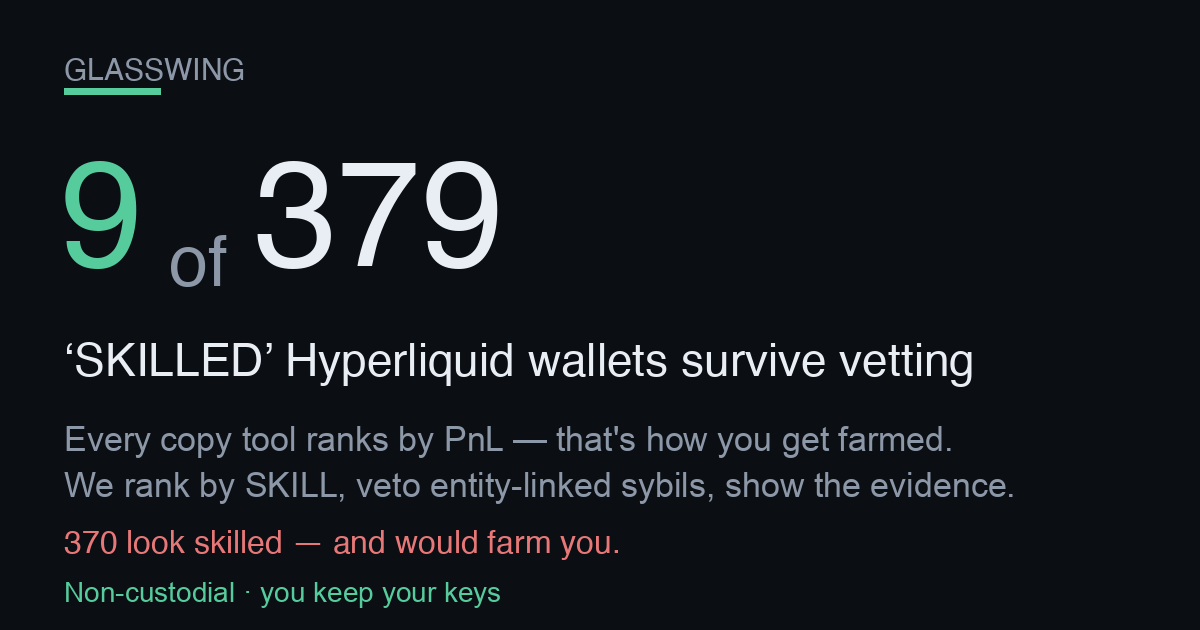
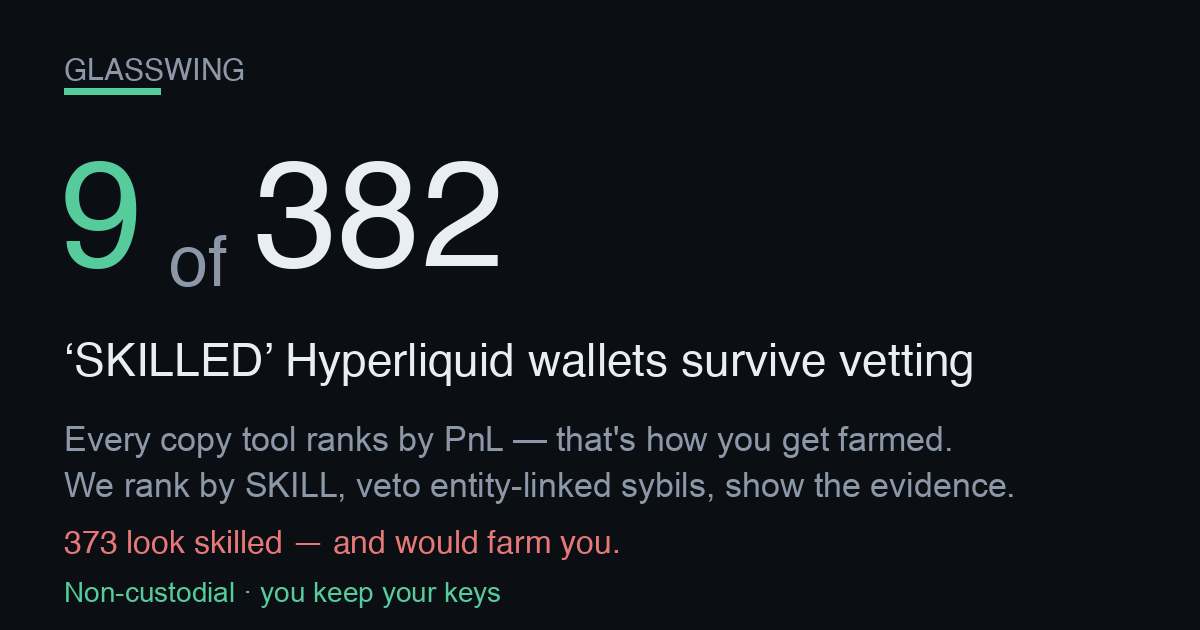
publish funnel 2026-09-12T03:16:04Z

Changed region(s): [[0.2775, 0.2413, 0.4317, 0.4524]]

diff --git a/screener.html b/screener.html
@@ -57,4 +57,4 @@ padding:11px 22px;font-size:15px;font-weight:800;border:1px solid var(--good)}
 footer{margin-top:34px;color:var(--muted);font-size:12px;line-height:1.6;
 border-top:1px solid var(--line);padding-top:16px}
 footer b{color:var(--ink)}
-</style></head><body><div class="wrap"><div class="nav"><a href="./index.html">&larr; Glasswing home</a><span class="sep">|</span><span>Edge Screener</span><span class="sep">|</span><a href="./dex.html">Copy a vetted leader</a></div><div class="hero"><h1>Hyperliquid Edge Screener</h1><div class="sub">Where&rsquo;s the carry, where a maker earns, and what&rsquo;s moving on Hyperliquid &mdash; live, computed from the public API. Bookmark it. Every number below is real and timestamped.</div><div class="stamp">Data as of <b>2026-09-11T21:07:48Z</b> &middot; rendered 2026-09-11T21:07:48Z &middot; 178 perps &middot; 104 HIP-3 (xyz) markets scanned</div></div><h2>Top funding &mdash; the carry table <span class="hint">perps ranked by annualized funding. Positive = longs pay shorts (a delta-neutral short earns it).</span></h2><div class="tblwrap"><table><thead><tr><th>Coin</th><th>Funding / hr</th><th>Annualized</th><th>Who pays</th><th>Open interest</th><th>24h volume</th></tr></thead><tbody><tr><td class="coin">MINA</td><td>-0.0289%</td><td class="neg">-253.1%</td><td><span class="tag shorts">shorts pay</span></td><td>$3.8M</td><td>$1.3M</td></tr><tr><td class="coin">ACE<span class="tag thin" title="Low liquidity/OI &mdash; ADL &amp; liquidation risk; funding can flip">&#9888; thin</span></td><td>-0.0284%</td><td class="neg">-249.0%</td><td><span class="tag shorts">shorts pay</span></td><td>$577K</td><td>$232K</td></tr><tr><td class="coin">BLUR</td><td>-0.0189%</td><td class="neg">-165.6%</td><td><span class="tag shorts">shorts pay</span></td><td>$1.2M</td><td>$1.7M</td></tr><tr><td class="coin">STX</td><td>-0.0136%</td><td class="neg">-119.3%</td><td><span class="tag shorts">shorts pay</span></td><td>$1.1M</td><td>$392K</td></tr><tr><td class="coin">ANIME<span class="tag thin" title="Low liquidity/OI &mdash; ADL &amp; liquidation risk; funding can flip">&#9888; thin</span></td><td>-0.0071%</td><td class="neg">-62.4%</td><td><span class="tag shorts">shorts pay</span></td><td>$331K</td><td>$162K</td></tr><tr><td class="coin">TRUMP</td><td>-0.0058%</td><td class="neg">-50.8%</td><td><span class="tag shorts">shorts pay</span></td><td>$12.4M</td><td>$6.6M</td></tr><tr><td class="coin">LIT</td><td>-0.0054%</td><td class="neg">-47.4%</td><td><span class="tag shorts">shorts pay</span></td><td>$183.7M</td><td>$58.1M</td></tr><tr><td class="coin">ICP</td><td>-0.0045%</td><td class="neg">-39.1%</td><td><span class="tag shorts">shorts pay</span></td><td>$3.4M</td><td>$1.4M</td></tr><tr><td class="coin">W</td><td>-0.0045%</td><td class="neg">-39.1%</td><td><span class="tag shorts">shorts pay</span></td><td>$1.5M</td><td>$328K</td></tr><tr><td class="coin">SAND<span class="tag thin" title="Low liquidity/OI &mdash; ADL &amp; liquidation risk; funding can flip">&#9888; thin</span></td><td>-0.0040%</td><td class="neg">-34.6%</td><td><span class="tag shorts">shorts pay</span></td><td>$484K</td><td>$272K</td></tr><tr><td class="coin">ALT<span class="tag thin" title="Low liquidity/OI &mdash; ADL &amp; liquidation risk; funding can flip">&#9888; thin</span></td><td>-0.0039%</td><td class="neg">-33.9%</td><td><span class="tag shorts">shorts pay</span></td><td>$810K</td><td>$101K</td></tr><tr><td class="coin">kPEPE</td><td>-0.0032%</td><td class="neg">-28.3%</td><td><span class="tag shorts">shorts pay</span></td><td>$20.9M</td><td>$11.4M</td></tr></tbody></table></div><h2>Widest HIP-3 spreads &mdash; where a maker earns <span class="hint">xyz: markets by impact-price spread vs the ~0.6bps round-trip fee. A resting limit order captures the gap.</span></h2><div class="tblwrap"><table><thead><tr><th>Market</th><th>Spread</th><th>vs 0.6bps fee</th><th>Mid</th><th>24h volume</th></tr></thead><tbody><tr><td class="coin">xyz:GIGADEV<span class="tag gm">growth</span></td><td>260.5 bps</td><td class="pos">+259.9 bps</td><td>54.3190</td><td>$290K</td></tr><tr><td class="coin">xyz:BIRD<span class="tag gm">growth</span></td><td>188.4 bps</td><td class="pos">+187.8 bps</td><td>2.4617</td><td>$39K</td></tr><tr><td class="coin">xyz:SHAZ<span class="tag gm">growth</span></td><td>88.9 bps</td><td class="pos">+88.3 bps</td><td>59.0775</td><td>$879K</td></tr><tr><td class="coin">xyz:SOFTBANK<span class="tag gm">growth</span></td><td>82.6 bps</td><td class="pos">+82.0 bps</td><td>42.9020</td><td>$617K</td></tr><tr><td class="coin">xyz:BOT<span class="tag gm">growth</span></td><td>73.6 bps</td><td class="pos">+73.0 bps</td><td>26.8565</td><td>$391K</td></tr><tr><td class="coin">xyz:SHEIN<span class="tag gm">growth</span></td><td>73.4 bps</td><td class="pos">+72.8 bps</td><td>5.1636</td><td>$501K</td></tr><tr><td class="coin">xyz:NCLD<span class="tag gm">growth</span></td><td>71.6 bps</td><td class="pos">+71.0 bps</td><td>24.0935</td><td>$205K</td></tr><tr><td class="coin">xyz:NET<span class="tag gm">growth</span></td><td>66.7 bps</td><td class="pos">+66.1 bps</td><td>307.0700</td><td>$110K</td></tr><tr><td class="coin">xyz:KR200<span class="tag gm">growth</span></td><td>62.2 bps</td><td class="pos">+61.6 bps</td><td>1,099.00</td><td>$383K</td></tr><tr><td class="coin">xyz:KIOXIA<span class="tag gm">growth</span></td><td>56.7 bps</td><td class="pos">+56.1 bps</td><td>353.4600</td><td>$3.7M</td></tr><tr><td class="coin">xyz:PURRDAT</td><td>52.2 bps</td><td class="pos">+51.6 bps</td><td>11.6055</td><td>$4.0M</td></tr><tr><td class="coin">xyz:URNM<span class="tag gm">growth</span></td><td>49.6 bps</td><td class="pos">+49.0 bps</td><td>52.5755</td><td>$287K</td></tr></tbody></table></div><h2>Momentum &amp; volume &mdash; what&rsquo;s moving <span class="hint">perps by 24h volume with the 24h price change (mark vs prior-day).</span></h2><div class="tblwrap"><table><thead><tr><th>Coin</th><th>24h volume</th><th>24h change</th><th>Mark</th></tr></thead><tbody><tr><td class="coin">BTC</td><td>$3.76B</td><td class="pos">+0.13%</td><td>77,338.90</td></tr><tr><td class="coin">ETH</td><td>$2.61B</td><td class="pos">+3.01%</td><td>2,534.20</td></tr><tr><td class="coin">HYPE</td><td>$634.4M</td><td class="pos">+0.19%</td><td>80.6332</td></tr><tr><td class="coin">ZEC</td><td>$616.1M</td><td class="pos">+4.79%</td><td>1,184.80</td></tr><tr><td class="coin">SOL</td><td>$322.9M</td><td class="pos">+2.64%</td><td>102.6300</td></tr><tr><td class="coin">XRP</td><td>$116.2M</td><td class="pos">+0.55%</td><td>1.3630</td></tr><tr><td class="coin">PUMP</td><td>$106.1M</td><td class="neg">-6.06%</td><td>0.00358</td></tr><tr><td class="coin">NEAR</td><td>$75.9M</td><td class="neg">-1.89%</td><td>2.4827</td></tr><tr><td class="coin">PONS</td><td>$71.1M</td><td class="pos">+0.52%</td><td>0.5843</td></tr><tr><td class="coin">LIT</td><td>$58.1M</td><td class="neg">-2.71%</td><td>4.4205</td></tr><tr><td class="coin">VVV</td><td>$37.2M</td><td class="neg">-1.10%</td><td>24.0995</td></tr><tr><td class="coin">LINK</td><td>$35.5M</td><td class="pos">+0.09%</td><td>11.5910</td></tr></tbody></table></div><div class="cta"><h2>These are the opportunities. Now copy the people who trade them.</h2><p class="lead">Spotting the carry and the spreads is the easy part &mdash; sizing, timing and risk are where most traders bleed. Copy the <b>skill-vetted</b> Hyperliquid leaders who actually trade these edges. Non-custodial: <b>you keep your keys and your funds</b> the entire time.</p><div class="row"><a class="btn" href="./index.html">See the vetted leaders &rarr;</a><a class="btn ghost" href="./dex.html">Start copying (non-custodial) &rarr;</a></div><div class="nc"><b>Non-custodial &amp; honest:</b> we never hold your keys or funds. Copying routes through a <b>0.01%</b> (1bp) on-chain builder fee &mdash; that is the only thing we ever charge, and it is the same fee shown on the copy page. Nothing on this screener is executed for you; it is information only.</div></div><footer><b>Not financial advice.</b> Funding rates, spreads and volumes are live snapshots that change every block; figures can be stale by the time you act. A high funding rate is <b>not free money</b> &mdash; the biggest rates sit on the thinnest, most crowded books (flagged &#9888; thin), where funding can flip against you and auto-deleveraging (ADL) or liquidation can close your position. &ldquo;Spread&rdquo; here is the impact-price spread (a conservative maker signal), not a guaranteed fill. HIP-3 markets are experimental. Do your own research and size responsibly. Glasswing is <b>non-custodial</b> &mdash; we never take custody of your keys or funds.</footer></div></body></html>
+</style></head><body><div class="wrap"><div class="nav"><a href="./index.html">&larr; Glasswing home</a><span class="sep">|</span><span>Edge Screener</span><span class="sep">|</span><a href="./dex.html">Copy a vetted leader</a></div><div class="hero"><h1>Hyperliquid Edge Screener</h1><div class="sub">Where&rsquo;s the carry, where a maker earns, and what&rsquo;s moving on Hyperliquid &mdash; live, computed from the public API. Bookmark it. Every number below is real and timestamped.</div><div class="stamp">Data as of <b>2026-09-12T03:13:30Z</b> &middot; rendered 2026-09-12T03:13:30Z &middot; 178 perps &middot; 104 HIP-3 (xyz) markets scanned</div></div><h2>Top funding &mdash; the carry table <span class="hint">perps ranked by annualized funding. Positive = longs pay shorts (a delta-neutral short earns it).</span></h2><div class="tblwrap"><table><thead><tr><th>Coin</th><th>Funding / hr</th><th>Annualized</th><th>Who pays</th><th>Open interest</th><th>24h volume</th></tr></thead><tbody><tr><td class="coin">ANIME<span class="tag thin" title="Low liquidity/OI &mdash; ADL &amp; liquidation risk; funding can flip">&#9888; thin</span></td><td>-0.0519%</td><td class="neg">-454.7%</td><td><span class="tag shorts">shorts pay</span></td><td>$343K</td><td>$177K</td></tr><tr><td class="coin">ACE</td><td>-0.0374%</td><td class="neg">-327.2%</td><td><span class="tag shorts">shorts pay</span></td><td>$605K</td><td>$262K</td></tr><tr><td class="coin">SOPH</td><td>-0.0349%</td><td class="neg">-306.1%</td><td><span class="tag shorts">shorts pay</span></td><td>$812K</td><td>$696K</td></tr><tr><td class="coin">HEMI</td><td>-0.0070%</td><td class="neg">-61.7%</td><td><span class="tag shorts">shorts pay</span></td><td>$1.2M</td><td>$476K</td></tr><tr><td class="coin">NXPC<span class="tag thin" title="Low liquidity/OI &mdash; ADL &amp; liquidation risk; funding can flip">&#9888; thin</span></td><td>-0.0050%</td><td class="neg">-43.8%</td><td><span class="tag shorts">shorts pay</span></td><td>$308K</td><td>$74K</td></tr><tr><td class="coin">MINA</td><td>-0.0047%</td><td class="neg">-41.6%</td><td><span class="tag shorts">shorts pay</span></td><td>$4.0M</td><td>$1.6M</td></tr><tr><td class="coin">ZETA<span class="tag thin" title="Low liquidity/OI &mdash; ADL &amp; liquidation risk; funding can flip">&#9888; thin</span></td><td>-0.0044%</td><td class="neg">-38.7%</td><td><span class="tag shorts">shorts pay</span></td><td>$1.3M</td><td>$122K</td></tr><tr><td class="coin">ALT<span class="tag thin" title="Low liquidity/OI &mdash; ADL &amp; liquidation risk; funding can flip">&#9888; thin</span></td><td>-0.0042%</td><td class="neg">-37.2%</td><td><span class="tag shorts">shorts pay</span></td><td>$823K</td><td>$100K</td></tr><tr><td class="coin">IO<span class="tag thin" title="Low liquidity/OI &mdash; ADL &amp; liquidation risk; funding can flip">&#9888; thin</span></td><td>-0.0038%</td><td class="neg">-33.0%</td><td><span class="tag shorts">shorts pay</span></td><td>$784K</td><td>$187K</td></tr><tr><td class="coin">MEME<span class="tag thin" title="Low liquidity/OI &mdash; ADL &amp; liquidation risk; funding can flip">&#9888; thin</span></td><td>-0.0037%</td><td class="neg">-32.6%</td><td><span class="tag shorts">shorts pay</span></td><td>$441K</td><td>$62K</td></tr><tr><td class="coin">BIGTIME<span class="tag thin" title="Low liquidity/OI &mdash; ADL &amp; liquidation risk; funding can flip">&#9888; thin</span></td><td>-0.0035%</td><td class="neg">-30.5%</td><td><span class="tag shorts">shorts pay</span></td><td>$208K</td><td>$92K</td></tr><tr><td class="coin">ATOM</td><td>-0.0028%</td><td class="neg">-24.6%</td><td><span class="tag shorts">shorts pay</span></td><td>$2.8M</td><td>$2.0M</td></tr></tbody></table></div><h2>Widest HIP-3 spreads &mdash; where a maker earns <span class="hint">xyz: markets by impact-price spread vs the ~0.6bps round-trip fee. A resting limit order captures the gap.</span></h2><div class="tblwrap"><table><thead><tr><th>Market</th><th>Spread</th><th>vs 0.6bps fee</th><th>Mid</th><th>24h volume</th></tr></thead><tbody><tr><td class="coin">xyz:BIRD<span class="tag gm">growth</span></td><td>139.6 bps</td><td class="pos">+139.0 bps</td><td>2.4886</td><td>$54K</td></tr><tr><td class="coin">xyz:NCLD<span class="tag gm">growth</span></td><td>118.6 bps</td><td class="pos">+118.0 bps</td><td>24.0970</td><td>$155K</td></tr><tr><td class="coin">xyz:SHAZ<span class="tag gm">growth</span></td><td>98.1 bps</td><td class="pos">+97.5 bps</td><td>60.0380</td><td>$826K</td></tr><tr><td class="coin">xyz:NET<span class="tag gm">growth</span></td><td>95.8 bps</td><td class="pos">+95.2 bps</td><td>308.3300</td><td>$103K</td></tr><tr><td class="coin">xyz:SHEIN<span class="tag gm">growth</span></td><td>88.8 bps</td><td class="pos">+88.2 bps</td><td>5.1749</td><td>$448K</td></tr><tr><td class="coin">xyz:LYTE<span class="tag gm">growth</span></td><td>77.2 bps</td><td class="pos">+76.6 bps</td><td>25.1680</td><td>$32K</td></tr><tr><td class="coin">xyz:RDDT<span class="tag gm">growth</span></td><td>73.4 bps</td><td class="pos">+72.8 bps</td><td>158.1150</td><td>$106K</td></tr><tr><td class="coin">xyz:BMNR</td><td>70.0 bps</td><td class="pos">+69.4 bps</td><td>24.9670</td><td>$379K</td></tr><tr><td class="coin">xyz:CRWD<span class="tag gm">growth</span></td><td>66.7 bps</td><td class="pos">+66.1 bps</td><td>206.3750</td><td>$134K</td></tr><tr><td class="coin">xyz:DKNG<span class="tag gm">growth</span></td><td>66.7 bps</td><td class="pos">+66.1 bps</td><td>24.7160</td><td>$195K</td></tr><tr><td class="coin">xyz:ZM<span class="tag gm">growth</span></td><td>64.8 bps</td><td class="pos">+64.2 bps</td><td>95.8420</td><td>$74K</td></tr><tr><td class="coin">xyz:XBI<span class="tag gm">growth</span></td><td>64.0 bps</td><td class="pos">+63.4 bps</td><td>156.3200</td><td>$25K</td></tr></tbody></table></div><h2>Momentum &amp; volume &mdash; what&rsquo;s moving <span class="hint">perps by 24h volume with the 24h price change (mark vs prior-day).</span></h2><div class="tblwrap"><table><thead><tr><th>Coin</th><th>24h volume</th><th>24h change</th><th>Mark</th></tr></thead><tbody><tr><td class="coin">BTC</td><td>$3.69B</td><td class="pos">+0.51%</td><td>77,252.40</td></tr><tr><td class="coin">ETH</td><td>$2.65B</td><td class="pos">+2.68%</td><td>2,513.20</td></tr><tr><td class="coin">HYPE</td><td>$606.4M</td><td class="pos">+0.22%</td><td>78.8450</td></tr><tr><td class="coin">ZEC</td><td>$523.2M</td><td class="pos">+6.57%</td><td>1,136.40</td></tr><tr><td class="coin">SOL</td><td>$316.2M</td><td class="pos">+2.43%</td><td>101.7144</td></tr><tr><td class="coin">XRP</td><td>$106.1M</td><td class="pos">+1.59%</td><td>1.3633</td></tr><tr><td class="coin">NEAR</td><td>$79.3M</td><td class="neg">-1.39%</td><td>2.3657</td></tr><tr><td class="coin">PUMP</td><td>$77.4M</td><td class="neg">-2.39%</td><td>0.00355</td></tr><tr><td class="coin">PONS</td><td>$61.8M</td><td class="neg">-1.15%</td><td>0.5998</td></tr><tr><td class="coin">LIT</td><td>$51.1M</td><td class="neg">-0.04%</td><td>4.3641</td></tr><tr><td class="coin">VVV</td><td>$34.7M</td><td class="neg">-0.48%</td><td>23.6330</td></tr><tr><td class="coin">LINK</td><td>$32.9M</td><td class="neg">-0.13%</td><td>11.4780</td></tr></tbody></table></div><div class="cta"><h2>These are the opportunities. Now copy the people who trade them.</h2><p class="lead">Spotting the carry and the spreads is the easy part &mdash; sizing, timing and risk are where most traders bleed. Copy the <b>skill-vetted</b> Hyperliquid leaders who actually trade these edges. Non-custodial: <b>you keep your keys and your funds</b> the entire time.</p><div class="row"><a class="btn" href="./index.html">See the vetted leaders &rarr;</a><a class="btn ghost" href="./dex.html">Start copying (non-custodial) &rarr;</a></div><div class="nc"><b>Non-custodial &amp; honest:</b> we never hold your keys or funds. Copying routes through a <b>0.01%</b> (1bp) on-chain builder fee &mdash; that is the only thing we ever charge, and it is the same fee shown on the copy page. Nothing on this screener is executed for you; it is information only.</div></div><footer><b>Not financial advice.</b> Funding rates, spreads and volumes are live snapshots that change every block; figures can be stale by the time you act. A high funding rate is <b>not free money</b> &mdash; the biggest rates sit on the thinnest, most crowded books (flagged &#9888; thin), where funding can flip against you and auto-deleveraging (ADL) or liquidation can close your position. &ldquo;Spread&rdquo; here is the impact-price spread (a conservative maker signal), not a guaranteed fill. HIP-3 markets are experimental. Do your own research and size responsibly. Glasswing is <b>non-custodial</b> &mdash; we never take custody of your keys or funds.</footer></div></body></html>

diff --git a/track.html b/track.html
@@ -62,7 +62,7 @@ font-weight:600;font-size:14px}
 <div class="wrap">
   <div class="hero">
     <h1>Self-verifying on-chain track record</h1>
-    <div class="big">$258.24</div>
+    <div class="big">$258.19</div>
     <div class="sub">current on-chain equity (perp + vault + spot USDC)</div>
     <div class="addr">0xbe6C1b09662BbE52CC93279D103Feb27985DdBc1</div>
     <div class="stage building">55 days live — BUILDING</div>
@@ -72,25 +72,25 @@ font-weight:600;font-size:14px}
 
   <h2>On-chain figures <span style="color:var(--muted);font-weight:400;font-size:13px">
   &mdash; every one reproducible from the public info API</span></h2>
-  <table><tbody><tr><td class="k">On-chain equity (perp + vault + spot USDC)</td><td class="v">$258.24</td></tr><tr><td class="k">Perp account value</td><td class="v">$258.06</td></tr><tr><td class="k">Vault equity</td><td class="v">$0.17</td></tr><tr><td class="k">Spot USDC</td><td class="v">$0.01</td></tr><tr><td class="k">Withdrawable</td><td class="v">$258.06</td></tr></tbody></table>
+  <table><tbody><tr><td class="k">On-chain equity (perp + vault + spot USDC)</td><td class="v">$258.19</td></tr><tr><td class="k">Perp account value</td><td class="v">$257.01</td></tr><tr><td class="k">Vault equity</td><td class="v">$0.17</td></tr><tr><td class="k">Spot USDC</td><td class="v">$1.00</td></tr><tr><td class="k">Withdrawable</td><td class="v">$224.22</td></tr></tbody></table>
 
-  <h2>Vault deposits (on-chain)</h2><table><thead><tr><th>Vault address</th><th>Our equity</th></tr></thead><tbody><tr><td class="mono">0x2431edfcb662e6ff6deab113cc91878a0b53fb0f</td><td class="v">$0.01</td></tr><tr><td class="mono">0x697bc3dd77539fa84156d0e1c95287ea5524fd6b</td><td class="v">$0.00</td></tr><tr><td class="mono">0x8825e6ed11c7f9c0874579c9f4bba192b9e81c8f</td><td class="v">$0.13</td></tr><tr><td class="mono">0xc71f5a493b937e4b1798b86510630336a6dfd804</td><td class="v">$0.03</td></tr></tbody></table>
+  <h2>Vault deposits (on-chain)</h2><table><thead><tr><th>Vault address</th><th>Our equity</th></tr></thead><tbody><tr><td class="mono">0x2431edfcb662e6ff6deab113cc91878a0b53fb0f</td><td class="v">$0.01</td></tr><tr><td class="mono">0x697bc3dd77539fa84156d0e1c95287ea5524fd6b</td><td class="v">$0.00</td></tr><tr><td class="mono">0x8825e6ed11c7f9c0874579c9f4bba192b9e81c8f</td><td class="v">$0.13</td></tr><tr><td class="mono">0xc71f5a493b937e4b1798b86510630336a6dfd804</td><td class="v">$0.04</td></tr></tbody></table>
 
   <h2>Performance <span style="color:var(--muted);font-weight:400;font-size:13px">
   &mdash; honest stage, no annualization</span></h2>
-  <table><tbody><tr><td class="k">Days live (our formal record)</td><td class="v">55</td></tr><tr><td class="k">Maturity</td><td class="v">BUILDING</td></tr><tr><td class="k">Current real strategy income / day</td><td class="v">$0.0964</td></tr><tr><td class="k">Cumulative net income (if attributed)</td><td class="v">$37.5586</td></tr><tr><td class="k">Annualized APR</td><td class="v">shown per-day above</td></tr></tbody></table>
+  <table><tbody><tr><td class="k">Days live (our formal record)</td><td class="v">55</td></tr><tr><td class="k">Maturity</td><td class="v">BUILDING</td></tr><tr><td class="k">Current real strategy income / day</td><td class="v">$0.1027</td></tr><tr><td class="k">Cumulative net income (if attributed)</td><td class="v">$37.6111</td></tr><tr><td class="k">Annualized APR</td><td class="v">shown per-day above</td></tr></tbody></table>
 
   <h2>Strategy arms <span style="color:var(--muted);font-weight:400;font-size:13px">
   &mdash; internal marks, cross-checkable against chain equity</span></h2>
-  <table><thead><tr><th>Arm</th><th>Status</th><th>Real / day</th><th>Note</th></tr></thead><tbody><tr><td class="v">carry</td><td><span class="badge off">—</span></td><td class="v">$0.0964</td><td class="k"></td></tr><tr><td class="v">copy</td><td><span class="badge live">live</span></td><td class="v">$0.0000</td><td class="k"></td></tr><tr><td class="v">builder</td><td><span class="badge off">—</span></td><td class="v">$0.0000</td><td class="k">proven live; $0 until distributed (∝ users&#x27; volume)</td></tr></tbody></table>
+  <table><thead><tr><th>Arm</th><th>Status</th><th>Real / day</th><th>Note</th></tr></thead><tbody><tr><td class="v">carry</td><td><span class="badge off">—</span></td><td class="v">$0.1027</td><td class="k"></td></tr><tr><td class="v">copy</td><td><span class="badge live">live</span></td><td class="v">$0.0000</td><td class="k"></td></tr><tr><td class="v">builder</td><td><span class="badge off">—</span></td><td class="v">$0.0000</td><td class="k">proven live; $0 until distributed (∝ users&#x27; volume)</td></tr></tbody></table>
 
   <h2>Reproduce it</h2>
   <div class="verify"><h3>Verify this yourself</h3><p>These are PUBLIC calls. Run them yourself against the address below and you will re-derive every on-chain figure on this page. equity_usd = perp accountValue + vault equity + spot USDC. Endpoint: https://api.hyperliquid.xyz/info</p><div class="cn">clearinghouseState &rarr; marginSummary.accountValue (perp value), withdrawable, marginSummary.totalMarginUsed</div><pre>curl -s -X POST https://api.hyperliquid.xyz/info -H &#x27;Content-Type: application/json&#x27; -d &#x27;{&quot;type&quot;: &quot;clearinghouseState&quot;, &quot;user&quot;: &quot;0xbe6C1b09662BbE52CC93279D103Feb27985DdBc1&quot;}&#x27;</pre><div class="cn">userVaultEquities &rarr; sum of each entry&#x27;s equity (our vault deposits)</div><pre>curl -s -X POST https://api.hyperliquid.xyz/info -H &#x27;Content-Type: application/json&#x27; -d &#x27;{&quot;type&quot;: &quot;userVaultEquities&quot;, &quot;user&quot;: &quot;0xbe6C1b09662BbE52CC93279D103Feb27985DdBc1&quot;}&#x27;</pre><div class="cn">spotClearinghouseState &rarr; balances[] where coin==USDC -&gt; total (spot USDC)</div><pre>curl -s -X POST https://api.hyperliquid.xyz/info -H &#x27;Content-Type: application/json&#x27; -d &#x27;{&quot;type&quot;: &quot;spotClearinghouseState&quot;, &quot;user&quot;: &quot;0xbe6C1b09662BbE52CC93279D103Feb27985DdBc1&quot;}&#x27;</pre></div>
 
   <footer>
     <div>Self-verifying: every on-chain figure is reproducible by querying Hyperliquid&#x27;s public info API for the stated address. Internal daily marks are cross-checkable against on-chain equity. EARLY-STAGE record — not a mature track record, not an APR promise, not financial advice. Past performance != future results.</div>
-    <div class="stamp">Generated at 2026-09-11T21:05:50Z &middot; internal marks
-    mtime 2026-09-11T19:36:45Z &middot; static receipt, no live
+    <div class="stamp">Generated at 2026-09-12T03:11:59Z &middot; internal marks
+    mtime 2026-09-12T01:36:55Z &middot; static receipt, no live
     authority — this page never trades or arms.</div>
   </footer>
 </div>

diff --git a/index.html b/index.html
@@ -3,8 +3,8 @@
 <head>
 <meta charset="utf-8">
 <meta name="viewport" content="width=device-width, initial-scale=1">
-<title>9 of 379 SKILLED Hyperliquid wallets survive vetting</title>
-<meta name="description" content="9 of 379 leaderboard-SKILLED Hyperliquid wallets survive vetting. Copy only the survivors, non-custodial — you keep your keys and funds.">
+<title>9 of 382 SKILLED Hyperliquid wallets survive vetting</title>
+<meta name="description" content="9 of 382 leaderboard-SKILLED Hyperliquid wallets survive vetting. Copy only the survivors, non-custodial — you keep your keys and funds.">
 <link rel="canonical" href="https://dynobit.github.io/glasswing/">
 <meta name="robots" content="index,follow">
 <meta name="theme-color" content="#0b0e13">
@@ -14,14 +14,14 @@
      head, not this. og:url is the canonical Pages home so every share resolves here. -->
 <meta property="og:type" content="website">
 <meta property="og:site_name" content="Glasswing">
-<meta property="og:title" content="9 of 379 SKILLED Hyperliquid wallets survive vetting">
+<meta property="og:title" content="9 of 382 SKILLED Hyperliquid wallets survive vetting">
 <meta property="og:description" content="Every copy tool ranks leaders by PnL — which is how you get farmed. This ranks by SKILL, then vetoes entity-linked sybils, and shows the evidence for every reject. Non-custodial: you keep your keys.">
 <meta property="og:url" content="https://dynobit.github.io/glasswing/">
 <meta property="og:image" content="https://dynobit.github.io/glasswing/og-card.png">
 <meta property="og:image:width" content="1200">
 <meta property="og:image:height" content="630">
 <meta name="twitter:card" content="summary_large_image">
-<meta name="twitter:title" content="9 of 379 SKILLED Hyperliquid wallets survive vetting">
+<meta name="twitter:title" content="9 of 382 SKILLED Hyperliquid wallets survive vetting">
 <meta name="twitter:description" content="Skill-ranked (not PnL-ranked) HL copy-leaders, entity-linked sybils vetoed with evidence. Non-custodial.">
 <meta name="twitter:image" content="https://dynobit.github.io/glasswing/og-card.png">
 <style>
@@ -135,18 +135,18 @@ footer .nc{color:var(--good);font-weight:600}
 
   <!-- 1. HERO — the shareable hook (screenshot-worthy) -->
   <div class="hero">
-    <h1><span class="big">9 of 379</span> &lsquo;SKILLED&rsquo;
+    <h1><span class="big">9 of 382</span> &lsquo;SKILLED&rsquo;
     Hyperliquid wallets survive vetting</h1>
-    <div class="sub">The other <span class="trap">370</span> look skilled on a
+    <div class="sub">The other <span class="trap">373</span> look skilled on a
     raw copy leaderboard but would farm you &mdash; here are the
-    <span class="trap">370</span> that would. Entity-linked sybils,
+    <span class="trap">373</span> that would. Entity-linked sybils,
     wash-traded track records, or simply unscreened. 2.4% survive.
-    Universe: 3582 scored wallets.</div>
+    Universe: 3600 scored wallets.</div>
   </div>
 
   <!-- 2. THE WEDGE — the marketing (why us, not any other copy tool) -->
   <div class="wedge"><span class="them">Every other copy tool ranks all
-    379 by PnL and calls it a leaderboard.</span> We are the only one that
+    382 by PnL and calls it a leaderboard.</span> We are the only one that
     <b>flags the entity-linked and farming wallets with on-chain evidence</b> &mdash;
     transfer-graph linkage between wallets and arXiv memecoin farm-features &mdash;
     and shows you only the 9 that survive. A high PnL is exactly what a
@@ -268,7 +268,7 @@ footer .nc{color:var(--good);font-weight:600}
   <footer>
     <div class="nc">Non-custodial: we never hold your keys or funds. No server, no backend. Your browser talks only to Hyperliquid&#x27;s public API.</div>
     <div>Advisory. Skill = sign-randomization null vs luck. Entity veto = public transfer-graph linkage. Farm screen = arXiv:2601.08641 features (memecoin thresholds, HL-uncalibrated). Follower-realizable PnL is NOT yet proven — a PRE-COMMITTED forward test is in progress (0/2 windows, earliest 2026-08-13); the copyability claim publishes only when the pre-registered windows close, so it cannot be discovery-mined. Exit-alpha shown is advisory. Not financial advice.</div>
-    <div class="stamp">Generated at 2026-09-11T21:06:52Z &middot; single-file funnel,
+    <div class="stamp">Generated at 2026-09-12T03:12:51Z &middot; single-file funnel,
     no live authority. In-browser order signing is IMPLEMENTED (real secp256k1 +
     keccak + msgpack EIP-712 from a pinned CDN) but UNVALIDATED against Hyperliquid:
     mainnet is blocked until a testnet order is proven accepted.</div>

diff --git a/dex.html b/dex.html
@@ -112,8 +112,8 @@ footer .nc{color:var(--good);font-weight:600}
     funds and your keys the whole time. Two signatures in your own wallet, an
     ephemeral in-browser agent key that can trade but never withdraw, and a
     client-side loop that mirrors only the
-    <b>9 of 379</b> vetted survivors
-    (universe: 3582 scored wallets). No server, no backend.</div>
+    <b>9 of 382</b> vetted survivors
+    (universe: 3600 scored wallets). No server, no backend.</div>
     <div class="tag">static bundle &middot; IPFS-publishable &middot; revenue accrues on-chain</div>
   </div>
 
@@ -217,7 +217,7 @@ footer .nc{color:var(--good);font-weight:600}
   <footer>
     <div class="nc">Pure DEX, self-custodial. No server, no backend, no key we ever hold. Your browser talks only to Hyperliquid&#x27;s public API.</div>
     <div>Advisory. Skill = sign-randomization null vs luck. Entity veto = public transfer-graph linkage. Farm screen = arXiv:2601.08641 features (memecoin thresholds, HL-uncalibrated). Follower-realizable PnL is NOT yet proven — a PRE-COMMITTED forward test is in progress (0/2 windows, earliest 2026-08-13); the copyability claim publishes only when the pre-registered windows close, so it cannot be discovery-mined. Exit-alpha shown is advisory. Not financial advice.</div>
-    <div class="stamp">Generated at 2026-09-11T21:06:52Z &middot; static,
+    <div class="stamp">Generated at 2026-09-12T03:12:51Z &middot; static,
     self-custodial surface, no live authority. In-browser order signing is
     IMPLEMENTED (real secp256k1 + keccak + msgpack EIP-712 from a pinned CDN) but
     UNVALIDATED against Hyperliquid: mainnet is blocked until a testnet order is
